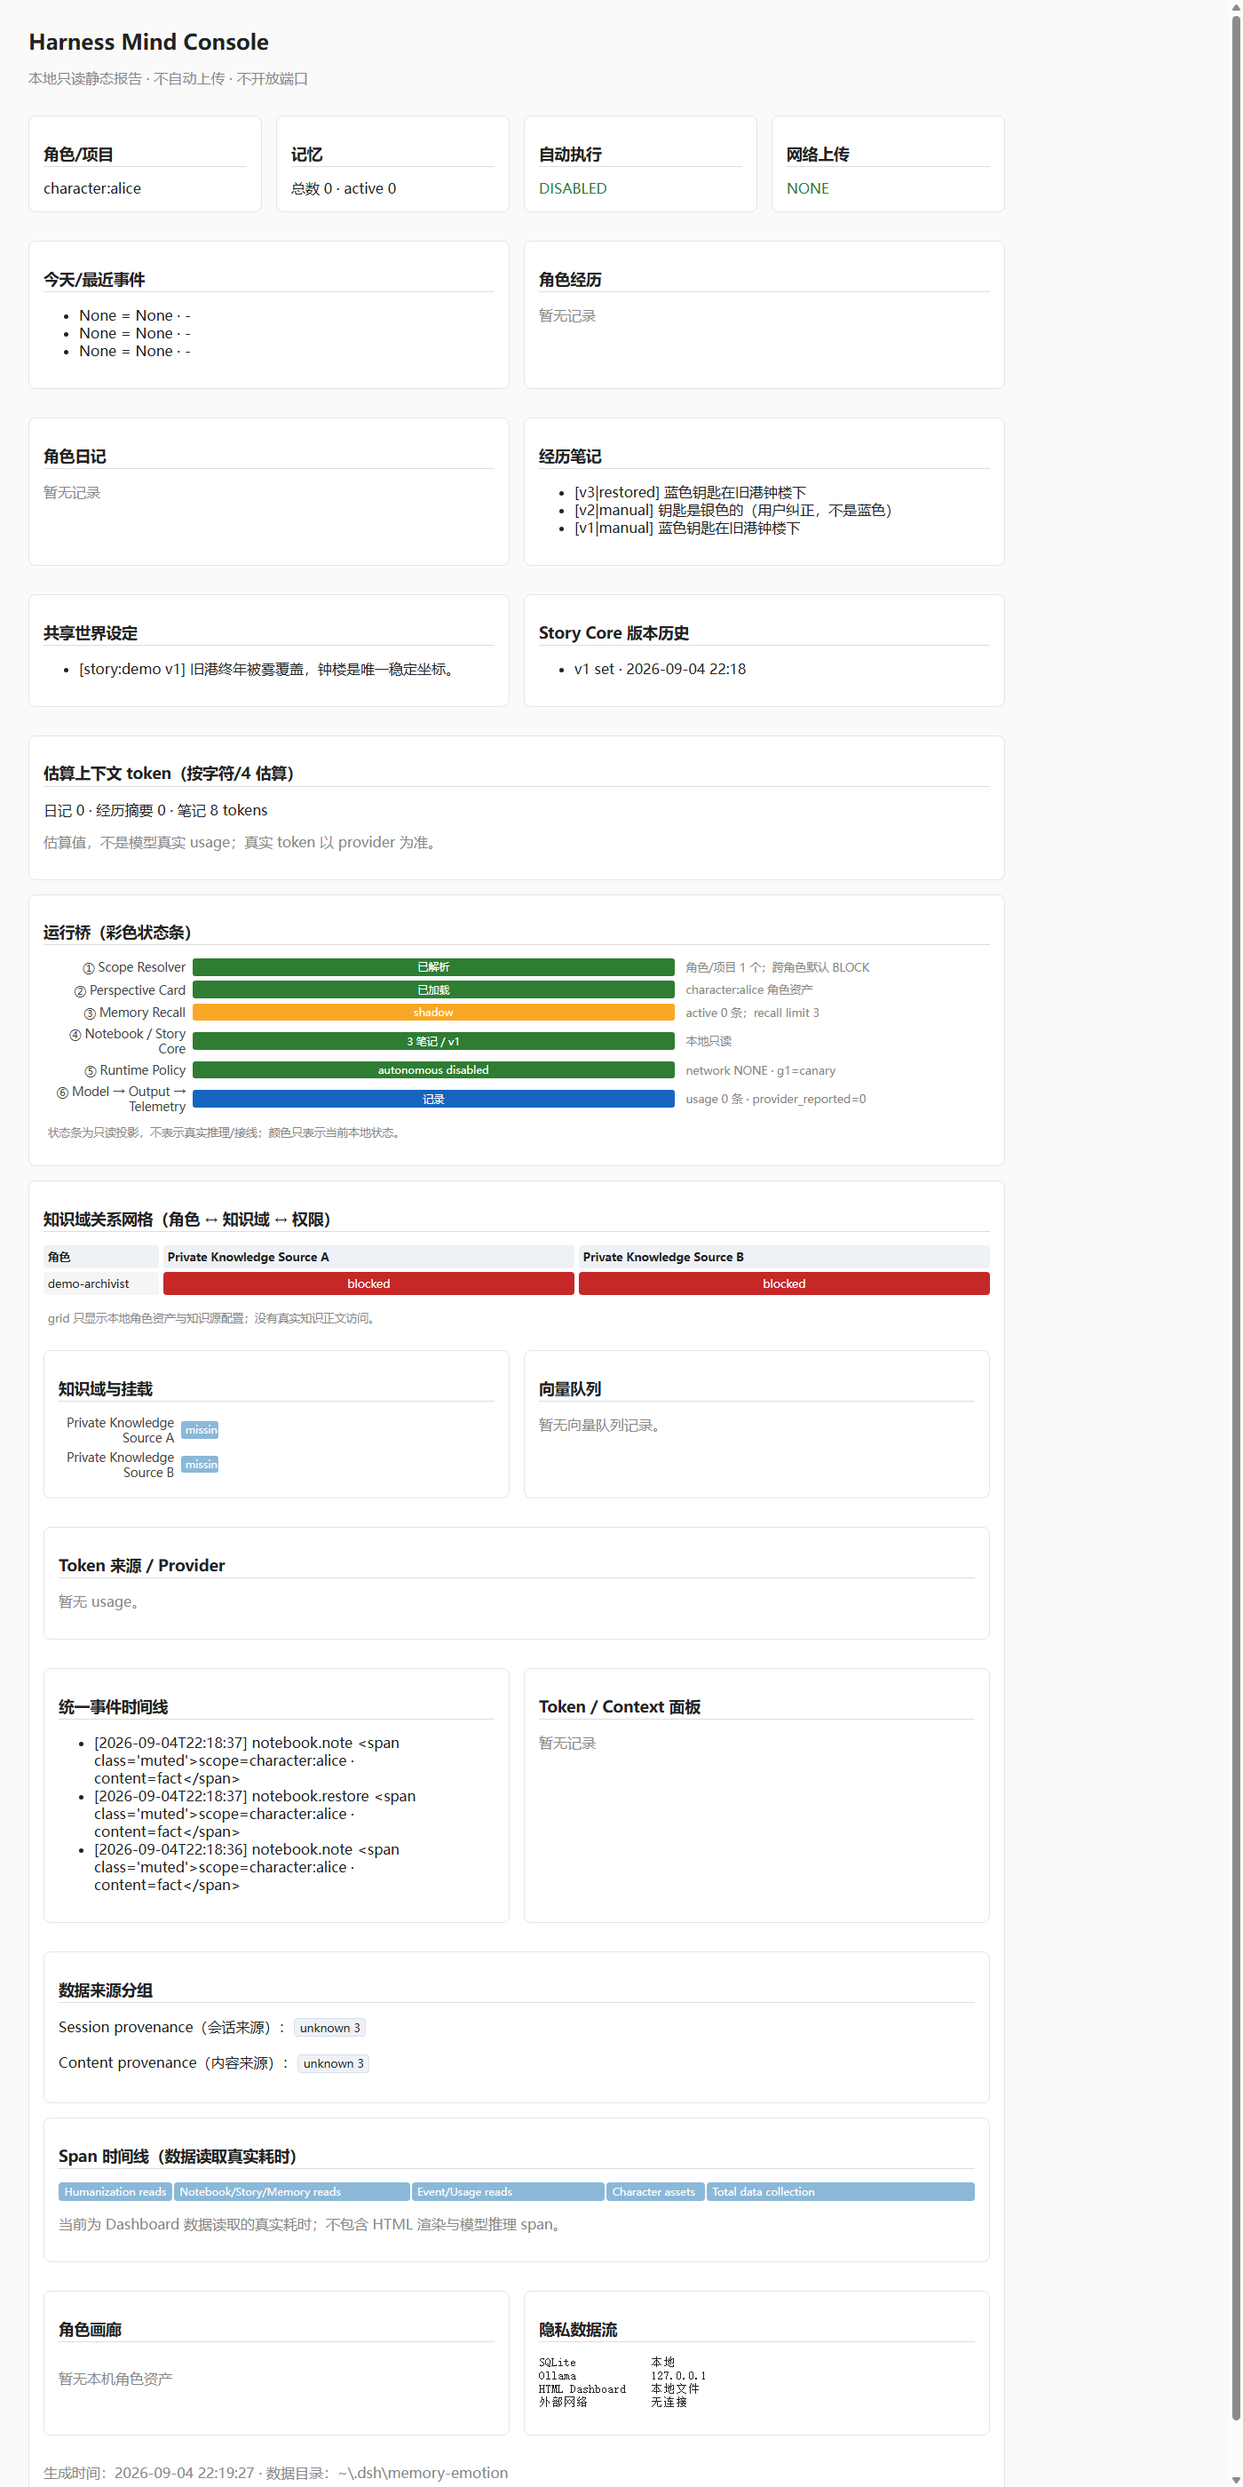
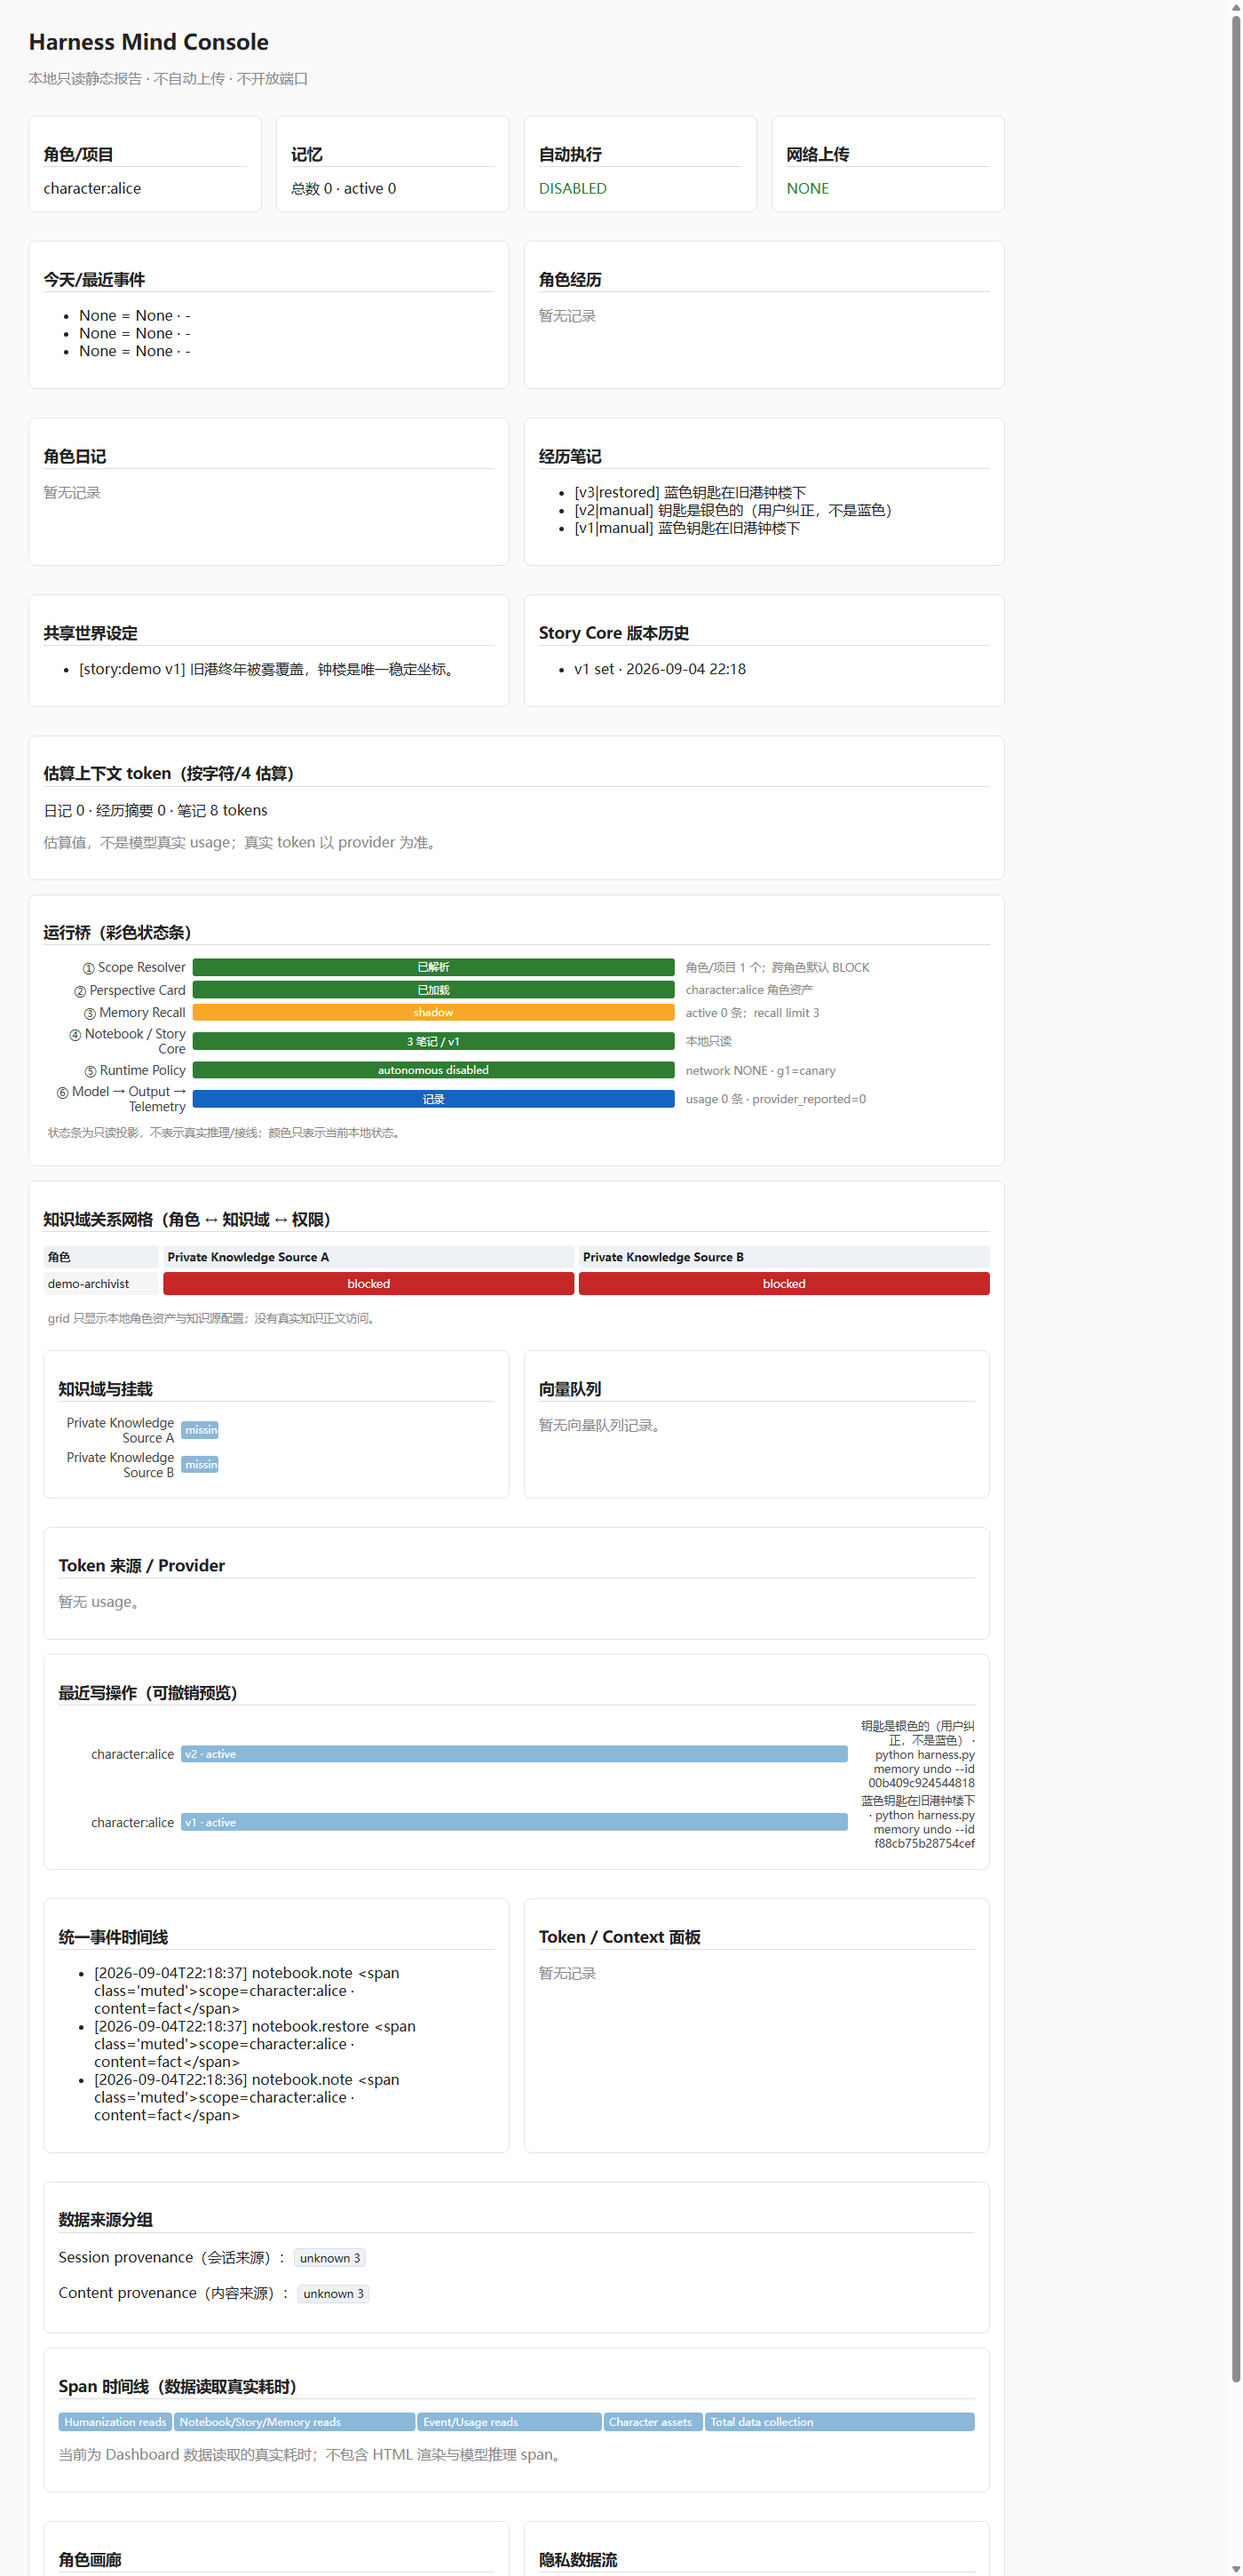
feat+docs: knowledge suggest loop, dashboard write undo preview, refresh screenshots

diff --git a/harness-core/dashboard.py b/harness-core/dashboard.py
@@ -225,6 +225,21 @@ def main():
     if not prov_html:
         prov_html = "<p class='muted'>暂无 usage。</p>"
 
+    # 最近写操作（可撤销预览）
+    notes_db = DATA_DIR / "notebooks.db"
+    manual_notes = _q(notes_db, "SELECT id,scope,kind,content,version,status,created_at FROM notebooks WHERE kind='manual' ORDER BY created_at DESC LIMIT 8")
+    manual_html = ""
+    if manual_notes:
+        for n in manual_notes:
+            status = "active" if n.get("status") in (None, "", "active") else n.get("status")
+            undo_hint = ("python harness.py memory undo --id %s" % n.get("id")) if status == "active" else "已归档，可用 restore 恢复"
+            manual_html += ("<div class='hb-row'><span>%s</span><div class='hb' style='width:100%%'>v%s · %s</div>"
+                            "<span class='st-muted'>%s · %s</span></div>"
+                            % (_html(n.get("scope")), _html(n.get("version")), _html(status),
+                               _html((n.get("content") or "")[:60]), _html(undo_hint)))
+    else:
+        manual_html = "<p class='muted'>暂无手动写操作记录。</p>"
+
     # 运行桥彩色状态条（纯 CSS CSP-safe）
     try:
         policy = runtime_policy.load()
@@ -347,6 +362,7 @@ code{{background:#f0f0f0;padding:0 .3em;border-radius:3px}}
   <div class="card"><h2>向量队列</h2>{vq_html}</div>
 </div>
 <div class="card"><h2>Token 来源 / Provider</h2>{prov_html}</div>
+<div class="card"><h2>最近写操作（可撤销预览）</h2>{manual_html}</div>
 <div class="grid">
   <div class="card"><h2>统一事件时间线</h2>{li(events,'event_type',lambda e: f"[{_ts(e.get('recorded_at'))}] {e.get('event_type')} <span class='muted'>scope={e.get('scope')} · content={e.get('content_type')}</span>")}</div>
   <div class="card"><h2>Token / Context 面板</h2>{li(usage,'model_id',lambda u: f"actual={u.get('actual_tokens')} · baseline={u.get('baseline_tokens')} · avoided={u.get('estimated_avoided_tokens')} · {u.get('usage_source')}")}</div>

diff --git a/harness-core/assets_commands.py b/harness-core/assets_commands.py
@@ -865,6 +865,34 @@ def cmd_knowledge(args):
         result = _knowledge_access(role, source_id, query or None, limit)
         print(json.dumps(result, ensure_ascii=False, indent=2))
         return 0 if result.get("ok") else 1
+    if sub == "suggest":
+        question = ""
+        role = ""
+        limit = 3
+        args1 = args[1:]
+        for i, a in enumerate(args1):
+            if a == "--question" and i + 1 < len(args1):
+                question = args1[i + 1]
+            if a == "--role" and i + 1 < len(args1):
+                role = args1[i + 1]
+            if a == "--limit" and i + 1 < len(args1):
+                limit = int(args1[i + 1])
+        if not question or not role:
+            print("用法：python harness.py knowledge suggest --question <问题> --role <persona_id> [--limit 3]")
+            return 1
+        d = _knowledge_delegate(question, role)
+        if not d.get("matched") or not d.get("allowed"):
+            result = dict(d)
+            result["note"] = d.get("note", "") + " 未执行只读访问。"
+            print(json.dumps(result, ensure_ascii=False, indent=2))
+            return 0
+        hits = d.get("hits") or []
+        access_query = hits[0] if hits else question
+        acc = _knowledge_access(role, d["source_id"], access_query, limit)
+        acc["delegate"] = d
+        acc["note"] = "委派匹配 + 只读访问返回有限上下文；不会修改/上传知识源。"
+        print(json.dumps(acc, ensure_ascii=False, indent=2))
+        return 0 if acc.get("ok") else 1
     print("未知 knowledge 子命令：" + sub)
     return 1
 

diff --git a/tests/test_knowledge_stewardship.py b/tests/test_knowledge_stewardship.py
@@ -95,6 +95,17 @@ class KnowledgeStewardshipTest(unittest.TestCase):
         self.assertIn("demo-archivist", d["responsible_roles"])
         self.assertTrue(d["allowed"])
 
+    def test_suggest_returns_limited_readonly_snippet(self):
+        kb_dir = self.home / "local" / "kb-a"
+        (kb_dir / "theory.md").write_text("女性主义理论强调差异性、情境与批判性。", encoding="utf-8")
+        p = self._run("suggest", "--question", "女性主义理论怎么理解？", "--role", "demo-archivist", "--limit", "3")
+        self.assertEqual(p.returncode, 0, p.stderr + p.stdout[-300:])
+        d = json.loads(p.stdout)
+        self.assertTrue(d["ok"])
+        self.assertTrue(d["allowed"])
+        self.assertTrue(d["delegate"]["matched"])
+        self.assertTrue(any("女性主义理论强调差异性" in m.get("snippet", "") for m in d["matches"]))
+
 
 if __name__ == "__main__":
     unittest.main()

diff --git a/docs/tasks/2026-09-04-whole-project-progress-audit.md b/docs/tasks/2026-09-04-whole-project-progress-audit.md
@@ -527,3 +527,10 @@ MCP 外部生态：尚未 Inspector/Registry/host-tested
 - **知识桥真实只读访问最小步**：`knowledge access --role <r> --source <s> [--query <q>]` 校验授权后读取目录清单/有限文本摘要，不修改不上传。
 - **MCP Inspector**：CLI 已尝试，本机 Windows 超时（rc=124），记录为待继续，未伪造成功。
 - 新增 `tests/test_user_experience_flows.py`（3 用例），unittest 总数 21。
+
+## 19. 后续处理记录（2026-09-04 续 7）
+
+- **知识桥下一步**：新增 `knowledge suggest --question <q> --role <r> [--limit 3]`，把「委派匹配 + 授权 + 只读访问」连成一步，返回有限上下文片段；不改动知识源。
+- **Dashboard 写操作预览**：Dashboard 增加「最近写操作（可撤销预览）」卡片，列出最近 manual 笔记，并给出 `memory undo --id` 撤销命令；真实截图/GIF 已重新生成。
+- **MCP Inspector**：Windows/WSL 的 CLI 仍未拿到成功输出；后续需排查 npx/stdio 挂起，或换容器 CI 环境。
+- `tests/test_knowledge_stewardship.py` 增加 suggest 用例，unittest 总数 22。

diff --git a/KNOWLEDGE_STEWARDSHIP.md b/KNOWLEDGE_STEWARDSHIP.md
@@ -8,6 +8,7 @@
 > - `knowledge mount`：把某个角色对某个知识域登记为“只读挂载状态”（写入 `knowledge-mounts.json`，不访问正文）
 > - `knowledge delegate`：根据问题关键词匹配负责知识域，返回负责角色与是否允许，不传递知识正文
 > - `knowledge access`：只读目录清单 + 有限文本摘要，进行授权校验，不修改/不上传知识源
+> - `knowledge suggest`：委派匹配 + 只读访问一次完成，返回有限上下文片段
 
 ---
 
